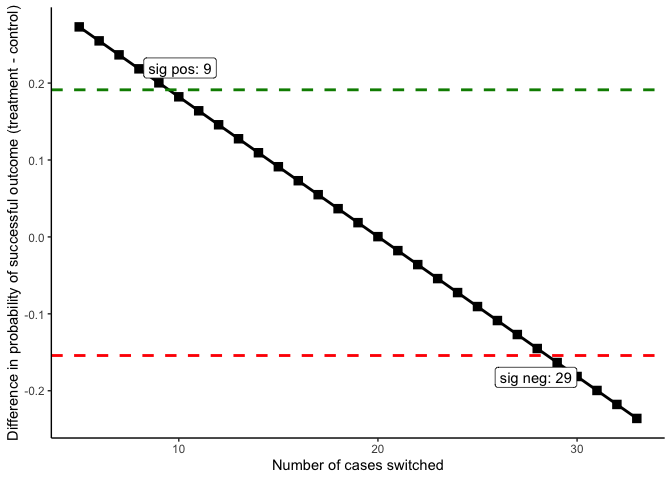
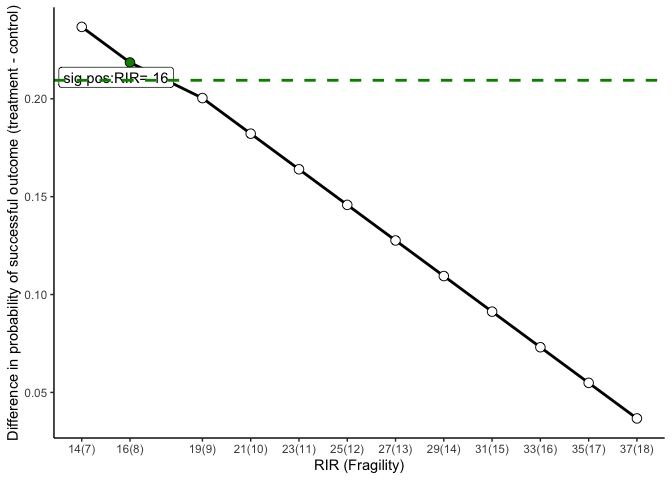
update readme

diff --git a/README.md b/README.md
@@ -55,7 +55,7 @@ pkonfound(est_eff = 2,
           n_covariates = 3)
 #> Percent Bias Necessary to Invalidate the Inference:
 #> To invalidate an inference, 60.3% of the estimate would have to be due to bias. This is based on a threshold of 0.794 for statistical significance (alpha = 0.05).
-#> To invalidate an inference, 60 observations would have to be replaced with cases for which the effect is 0.
+#> To invalidate an inference, 60 observations would have to be replaced with cases for which the effect is 0 (RIR = 60).
 #> See Frank et al. (2013) for a description of the method
 #> Citation: Frank, K.A., Maroulis, S., Duong, M., and Kelcey, B. 2013. What would it take to change an inference? Using Rubin's causal model to interpret the robustness of causal inferences. Education, Evaluation and Policy Analysis, 35 437-460.
 #> Impact Threshold for a Confounding Variable:
@@ -112,7 +112,7 @@ as follows, specifying the fitted model object:
 konfound(m1, wt)
 #> Percent Bias Necessary to Invalidate the Inference:
 #> To invalidate an inference, 66.664% of the estimate would have to be due to bias. This is based on a threshold of -1.293 for statistical significance (alpha = 0.05).
-#> To invalidate an inference, 21 observations would have to be replaced with cases for which the effect is 0.
+#> To invalidate an inference, 21 observations would have to be replaced with cases for which the effect is 0 (RIR = 21).
 #> See Frank et al. (2013) for a description of the method
 #> Citation: Frank, K.A., Maroulis, S., Duong, M., and Kelcey, B. 2013. What would it take to change an inference? Using Rubin's causal model to interpret the robustness of causal inferences. Education, Evaluation and Policy Analysis, 35 437-460.
 #> Impact Threshold for a Confounding Variable:
@@ -171,14 +171,16 @@ cases and success versus failure for the outcome, i.e.:
 
 ``` r
 tkonfound(35, 17, 17, 38)
+#> Warning in fisher.test(table): 'x' has been rounded to integer: Mean relative
+#> difference: 1
 #> [[1]]
-#> [1] "The tkonfound function calculates the number of cases that would have to be switched from one cell to another of a 2x2 table to invalidate an inference made about the association between the rows and columns. This can be applied to treatment vs control with successful vs unsuccessful outcomes."
+#> [1] "The tkonfound function calculates the number of cases that would have to be replaced with no effect cases (RIR) to invalidate an inference made about the association between the rows and columns in a 2x2 table. One can also interpret this as switches from one cell to another, such as from the treatment success cell to the treatment failure cell."
 #> 
 #> [[2]]
 #> [1] "See konfound_fig for full and accessible details in graphic form!"
 #> 
 #> [[3]]
-#> [1] "To invalidate the inference, 10 cases need to be transferred from treatment success to treatment failure, as shown, from the User-entered Table to the Transfer Table."
+#> [1] "To invalidate the inference, you would need to replace 19 treatment success cases with null hypothesis cases (RIR = 19). This is equivalent to transferring 9 cases from treatment success to treatment failure ."
 #> 
 #> $User_enter_value
 #>           Fail Success
@@ -188,13 +190,16 @@ tkonfound(35, 17, 17, 38)
 #> $Transfer_Table
 #>           Fail Success
 #> Control     35      17
-#> Treatment   27      28
+#> Treatment   26      29
 #> 
 #> [[6]]
-#> [1] "For the User-entered Table, we have a Pearson's chi square of 14.176, with p value of 0.000."
+#> [1] "For the User-entered Table, we have an estimated odds ratio of 4.530, with p value of 0.000."
 #> 
 #> [[7]]
-#> [1] "For the Transfer Table, we have a Pearson's chi square of 3.640, with p value of 0.056."
+#> [1] "For the Transfer Table, we have an estimated odds ratio of 2.278, with p value of 0.051."
+#> 
+#> $RIR
+#> [1] 19
 ```
 
 Print `nl_output` to see the output.
@@ -204,6 +209,8 @@ switching outcomes.
 
 ``` r
 tkonfound_fig(35, 17, 17, 38)
+#> Warning in fisher.test(table): 'x' has been rounded to integer: Mean relative
+#> difference: 1
 #> [[1]]
 ```
 
@@ -211,7 +218,10 @@ tkonfound_fig(35, 17, 17, 38)
 
     #> 
     #> [[2]]
-    #> Warning: Removed 27 rows containing missing values (geom_label_repel).
+    #> [1] "A bend in line indicates switches from the control row because the treatment row was exhausted."
+    #> 
+    #> [[3]]
+    #> Warning: Removed 11 rows containing missing values (geom_label_repel).
 
 ![](README-unnamed-chunk-10-2.png)<!-- -->
 
